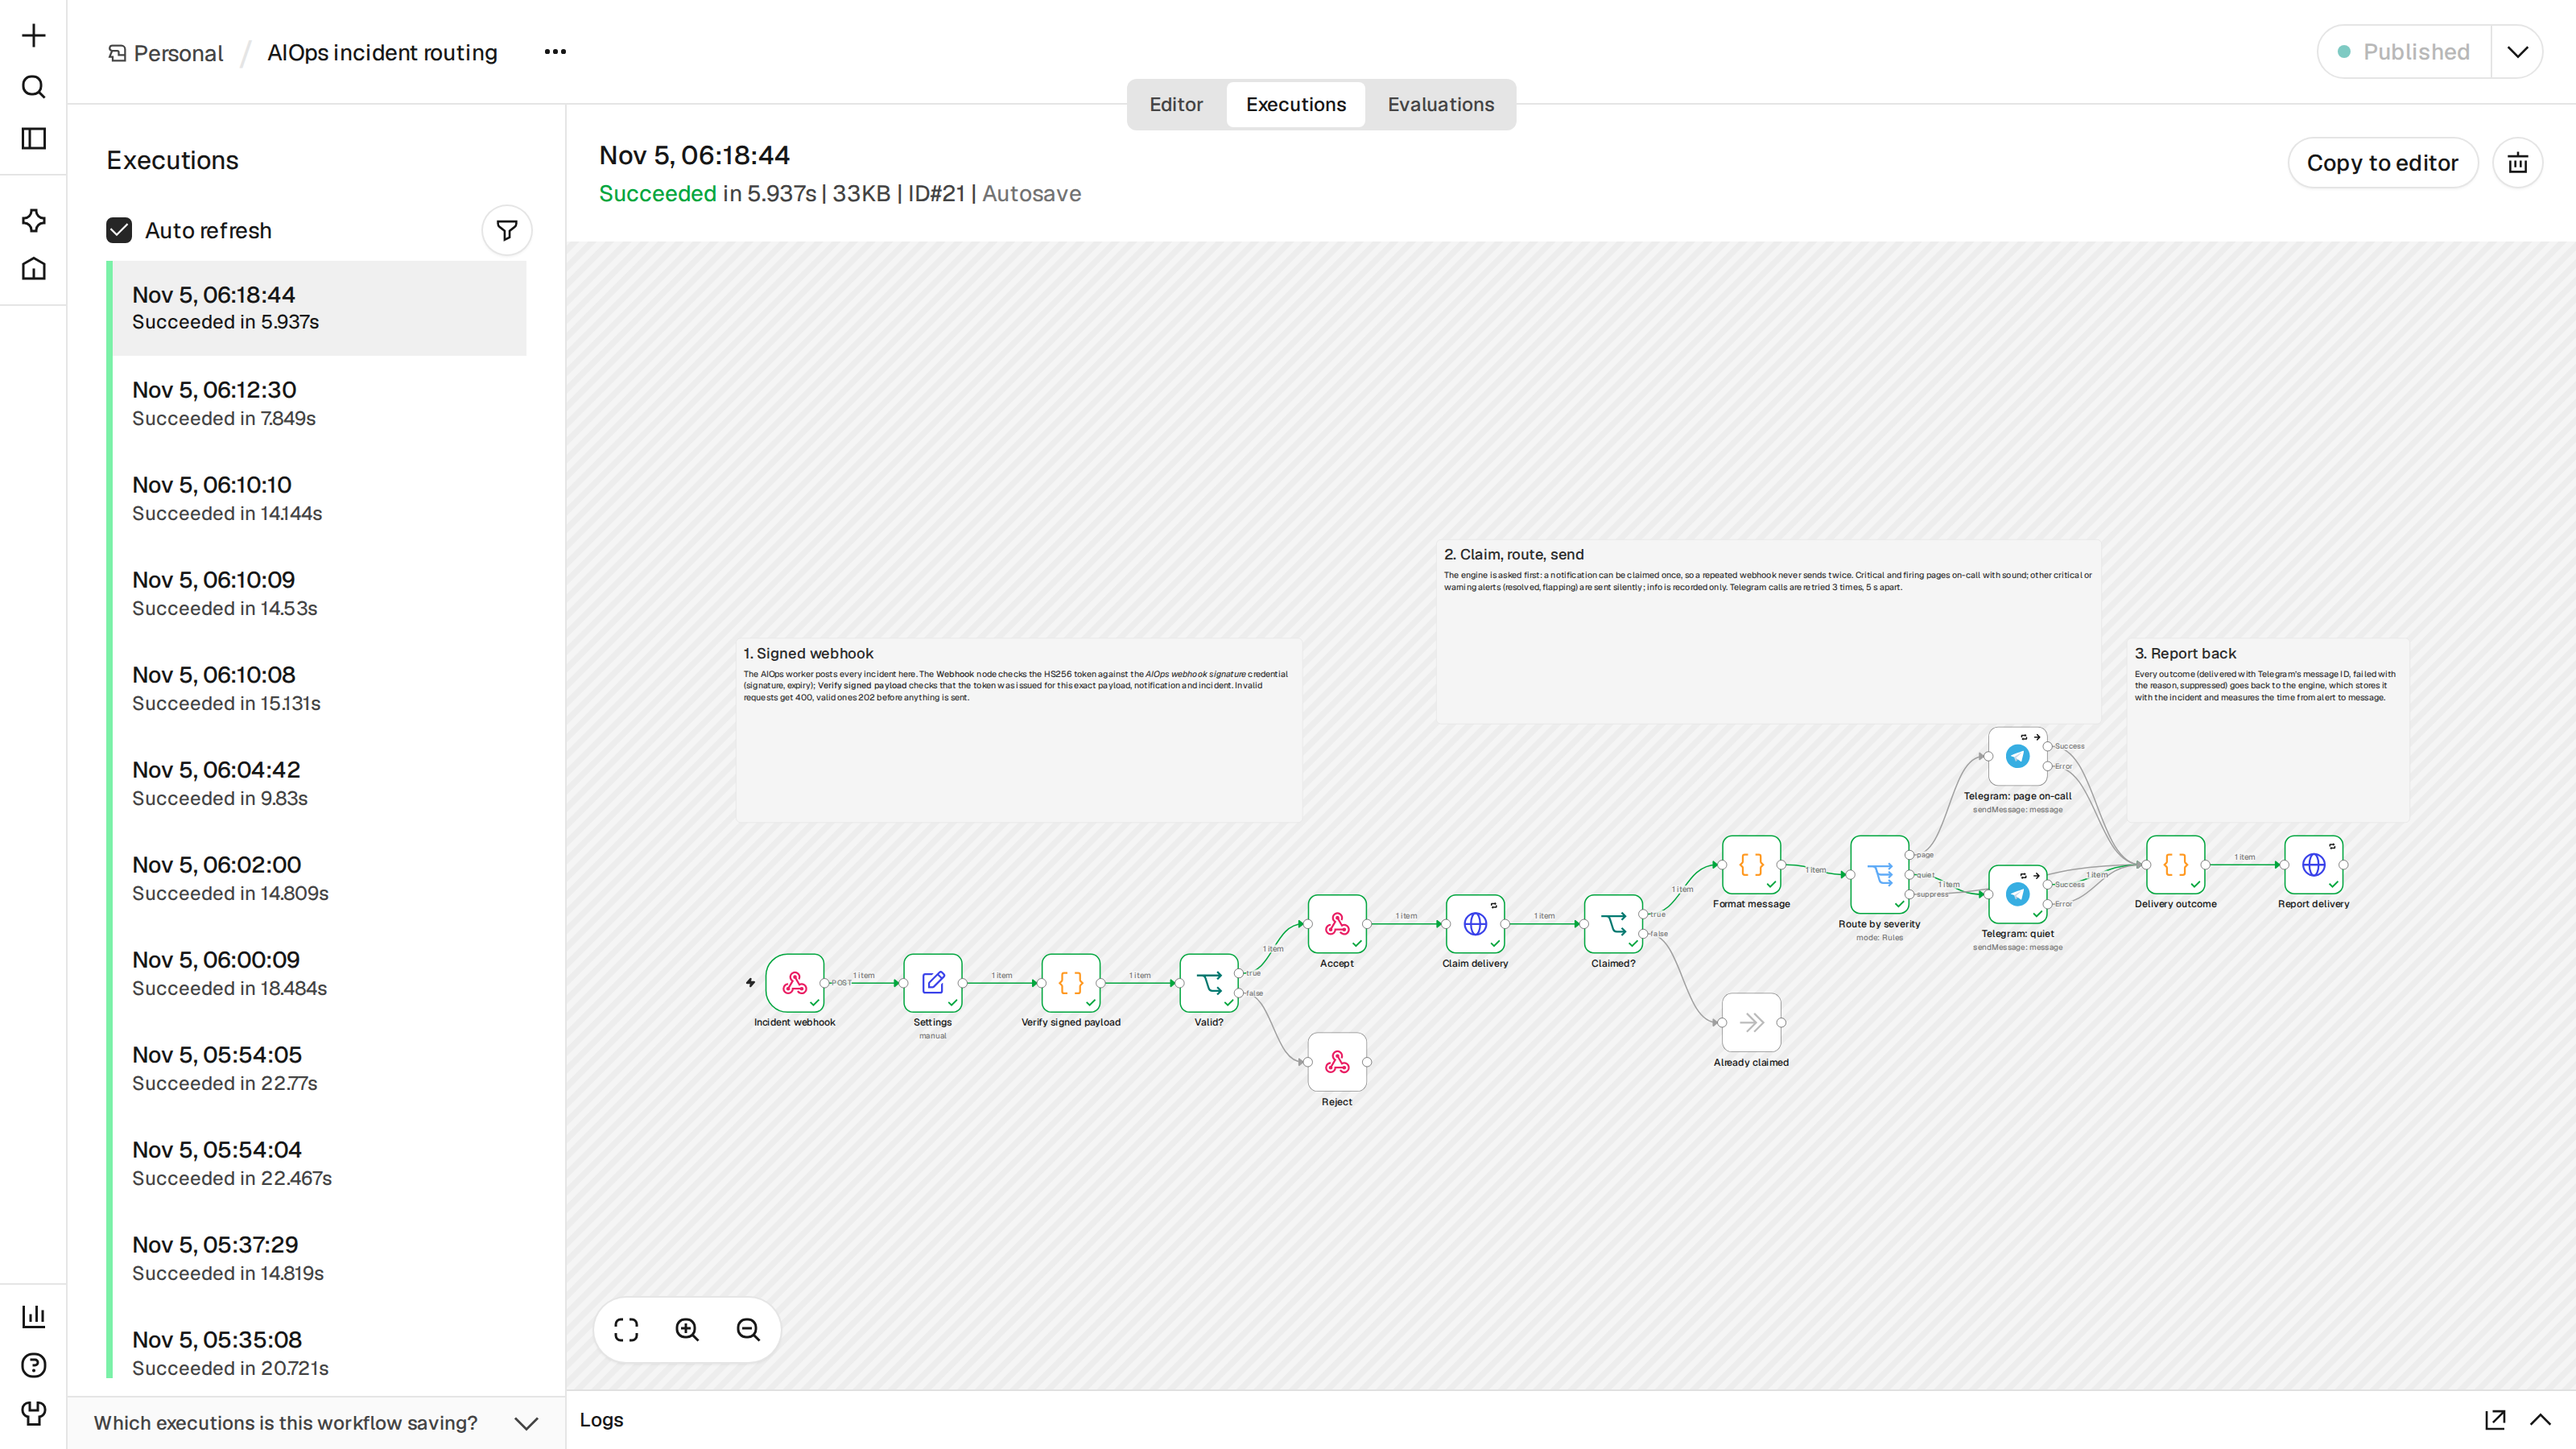
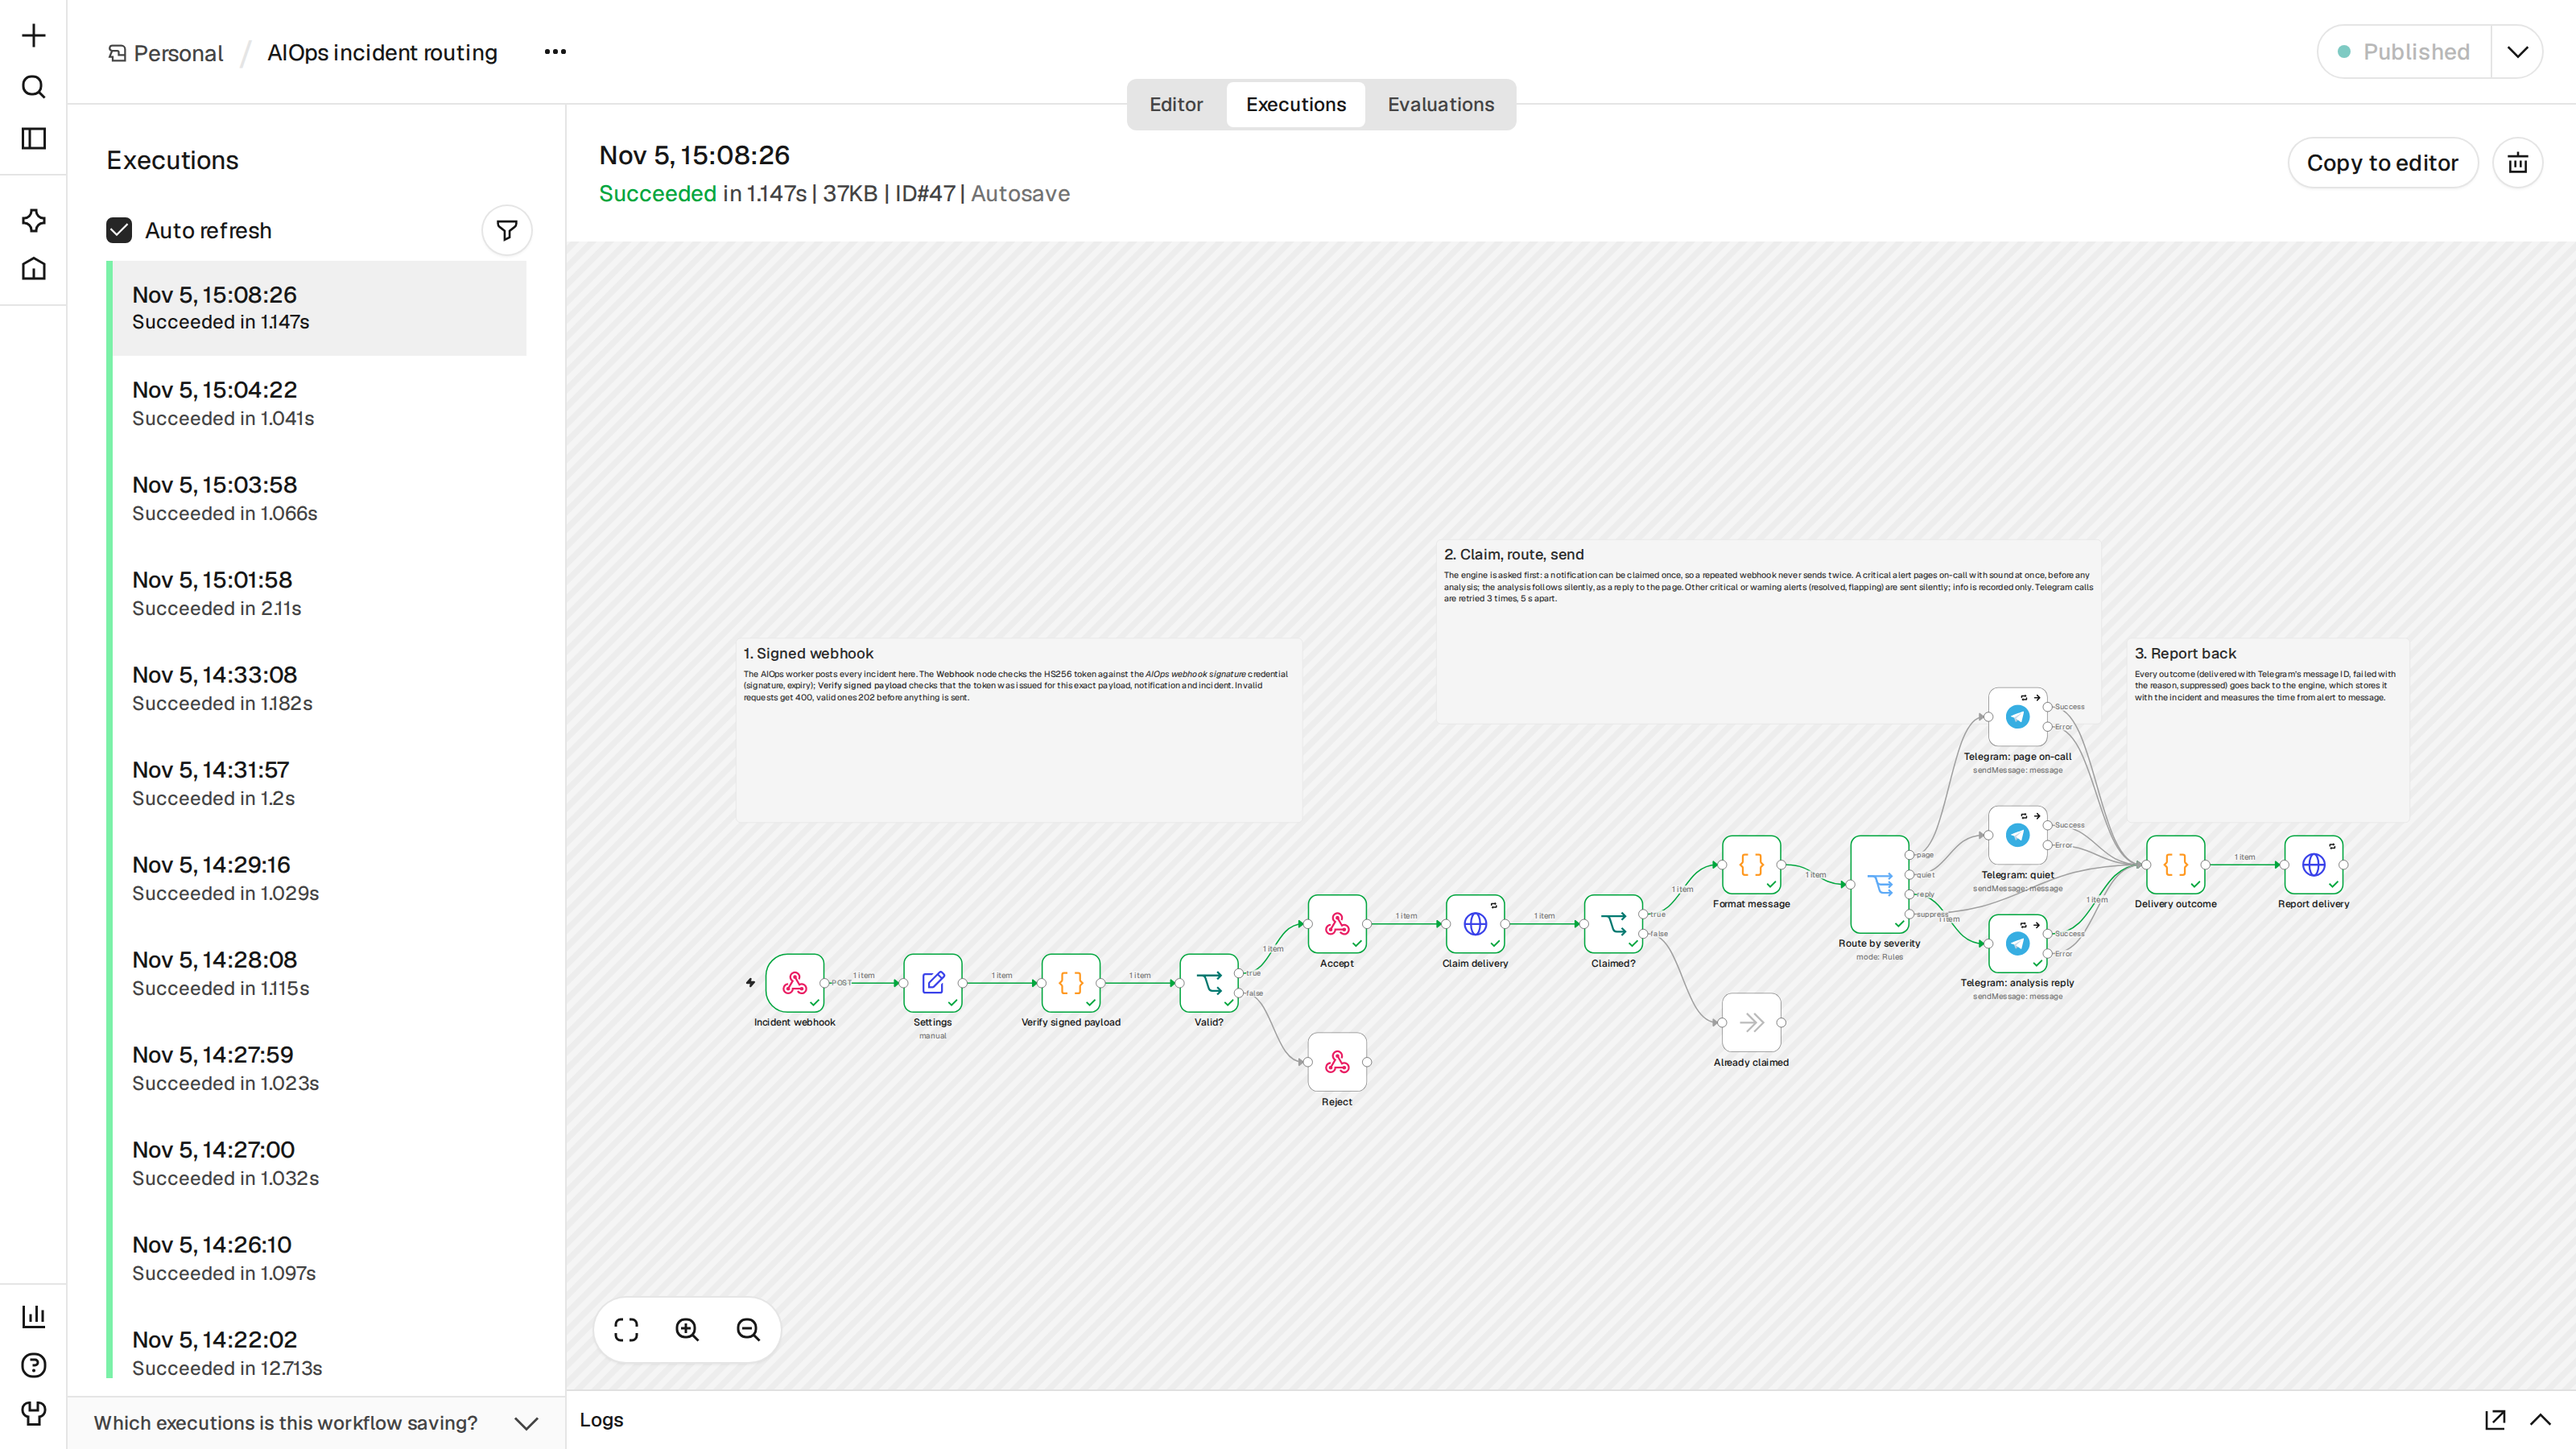
docs: critical page measured on a fault drill: 12.6 s from alert to Telegram

diff --git a/README.md b/README.md
@@ -20,9 +20,10 @@ alert or log line leaves it.
 ![The n8n routing workflow: signed webhook, claim, route by severity, Telegram, report](docs/images/n8n-workflow.png)
 
 *The import-ready n8n workflow, set up automatically by `make up`. Below, one of its real
-executions: a warning routed to the silent Telegram branch and reported back.*
+executions: the analysis of a critical alert in a fault drill, sent as a silent reply to
+the page that had gone out at once, and reported back.*
 
-![A real execution of the workflow, every step green, through "Telegram: quiet"](docs/images/n8n-execution.png)
+![A real execution of the workflow, every step green, through "Telegram: analysis reply"](docs/images/n8n-execution.png)
 
 ## Architecture
 
@@ -219,10 +220,18 @@ running.
 Once the analysis is stored (or has failed: the alert alone is still worth a message),
 the worker hands the incident to the n8n workflow
 [`n8n_workflows/aiops_incident_routing.json`](n8n_workflows/aiops_incident_routing.json).
-Each incident gets at most two messages: the firing one with the analysis, and an
-all-clear when the alert resolves. When it resolves before the analysis is done, the
-firing message says so and no all-clear follows; that decision is taken under a lock on
-the incident row, so the two can never both be skipped or both be sent.
+Each incident gets at most three messages:
+
+* **the page**, for a critical alert that fires and is not flapping: queued in the same
+  transaction that opens the incident and sent at once, with sound, before any log is
+  read or any model asked;
+* **the analysis**, once it is done (or has failed): for a paged incident a silent reply
+  to the page in the chat, otherwise the incident's first message;
+* **the all-clear**, when the alert resolves, if a message announced it as firing. When
+  it resolves before any message went out, the analysis says so instead.
+
+These decisions are taken under a lock on the incident row, which the ingestion also
+takes when the alert resolves, so no message is skipped or sent twice in a race.
 
 ```mermaid
 flowchart LR
@@ -233,8 +242,9 @@ flowchart LR
     cd -->|yes| fm["Format message<br/>(Code)"] --> sw{"Route by severity<br/>(Switch)"}
     sw -->|page| tp["Telegram: page on-call"]
     sw -->|quiet| tq["Telegram: quiet"]
+    sw -->|reply| tr["Telegram: analysis reply"]
     sw -->|suppress| out
-    tp & tq -->|answer or error| out["Delivery outcome<br/>(Code)"] --> rp["Report delivery<br/>(engine API)"]
+    tp & tq & tr -->|answer or error| out["Delivery outcome<br/>(Code)"] --> rp["Report delivery<br/>(engine API)"]
 ```
 
 **A signed webhook.** The body is `{"payload": "<JSON text>"}`; the `Authorization`
@@ -256,7 +266,8 @@ engine stores it with the incident and its timeline, and measures how long it to
 
 | Alert | Route | Telegram |
 |---|---|---|
-| `critical`, firing, not flapping | `page` | A message with sound |
+| `critical`, firing, not flapping | `page` | At once, with sound; no analysis yet |
+| the analysis of a paged incident | `reply` | A silent reply to the page |
 | any other `critical` or `warning` (resolved, flapping) | `quiet` | A silent message |
 | `info`, `none`, unknown | `suppress` | Nothing; recorded as suppressed |
 
@@ -370,11 +381,15 @@ settings for a CPU (`AIOPS_LLM_MAX_LOG_LINES=60`, `AIOPS_LLM_MAX_LOG_CHARS=4000`
   crash loop that prints nothing, a throttled CPU) the answer was "unknown" or
   "insufficient information", at low confidence, not an invented cause. The checks
   removed two commands in which the model had kept the prompt's `<project>` placeholder.
-* **Critical first.** The critical alert's analysis has a lane of its own and waited only
-  for the one analysis already running. It still took 8 minutes on this CPU, by which
-  time Grafana was back: the message reported the resolution, silently. With a GPU or a
-  hosted model the analysis takes seconds; on a slow host, paging before the analysis is
-  the next step (see the roadmap).
+* **Critical alerts page at once.** In this round the critical alert's analysis (in its
+  own lane) still took 8 minutes on this CPU, and its only message went out after
+  Grafana was back: late and silent. Since then a critical alert pages before any
+  analysis. The same drill again
+  ([results](docs/results/page-drill-20261105.json)): the page with sound reached
+  Telegram **12.6 s** after the alert fired (10 s of it Alertmanager's `group_wait`, 0.9 s
+  the engine, 1.5 s n8n and Telegram); when Grafana came back two minutes later the
+  all-clear followed 1.4 s after the resolution; the analysis arrived as a reply to the
+  page 6.5 minutes after the alert (388 s of model time).
 
 **The first round, before the fixes**
 ([results](docs/results/drills-round1-20261105.json)), with the defaults (300 s
@@ -518,9 +533,10 @@ hour), new ones at once.
 | `make screenshots` | PNGs of the n8n workflow, a real execution and the API docs (Playwright) |
 | `python3 scripts/incident_report.py` | Measured results of incidents from the engine's records (JSON and a table) |
 
-236 Python tests with 97% branch coverage, and 13 Code-node tests; CI also checks that
+244 Python tests with 97% branch coverage, and 16 Code-node tests; CI also checks that
 the models and migrations agree (`alembic check`) and runs the smoke test against the
-full stack, from an alert to a (fake) Telegram message, retries included.
+full stack, from an alert to a (fake) Telegram page and the analysis replying to it,
+retries included.
 
 ## Roadmap
 
@@ -537,13 +553,11 @@ full stack, from an alert to a (fake) Telegram message, retries included.
    fake Bot API for CI, `scripts/simulate_alert.py`, `make telegram-test`, the
    observability stack's Alertmanager wired in.
 5. **Measured results** (done): end-to-end latency and analysis quality on real fault
-   drills, the model on a separate machine, the n8n owner account from secrets,
-   screenshots, final documentation.
+   drills, critical alerts paged before their analysis, the model on a separate machine,
+   the n8n owner account from secrets, screenshots, final documentation.
 
-Next candidates: for critical alerts on a slow model host, a page at once and the
-analysis as a follow-up message; n8n's task runner as a separate container (internal
-mode is deprecated in n8n 2.45); an incident view in Grafana; Slack and e-mail branches
-in the workflow.
+Next candidates: n8n's task runner as a separate container (internal mode is deprecated
+in n8n 2.45); an incident view in Grafana; Slack and e-mail branches in the workflow.
 
 ## License
 

diff --git a/docs/results/page-drill-20261105.md b/docs/results/page-drill-20261105.md
@@ -1,0 +1,3 @@
+| Alert | Severity | Alertmanager | Log lines | Page | Model | Confidence | Checks removed | Route | n8n + Telegram | Alert to analysis |
+|---|---|---|---|---|---|---|---|---|---|---|
+| TargetDown | critical | 10 s | 82 | 12.6 s | 387.8 s | low | 0 cmd, 0 quote | reply | 0.858 s | 399.8 s |
